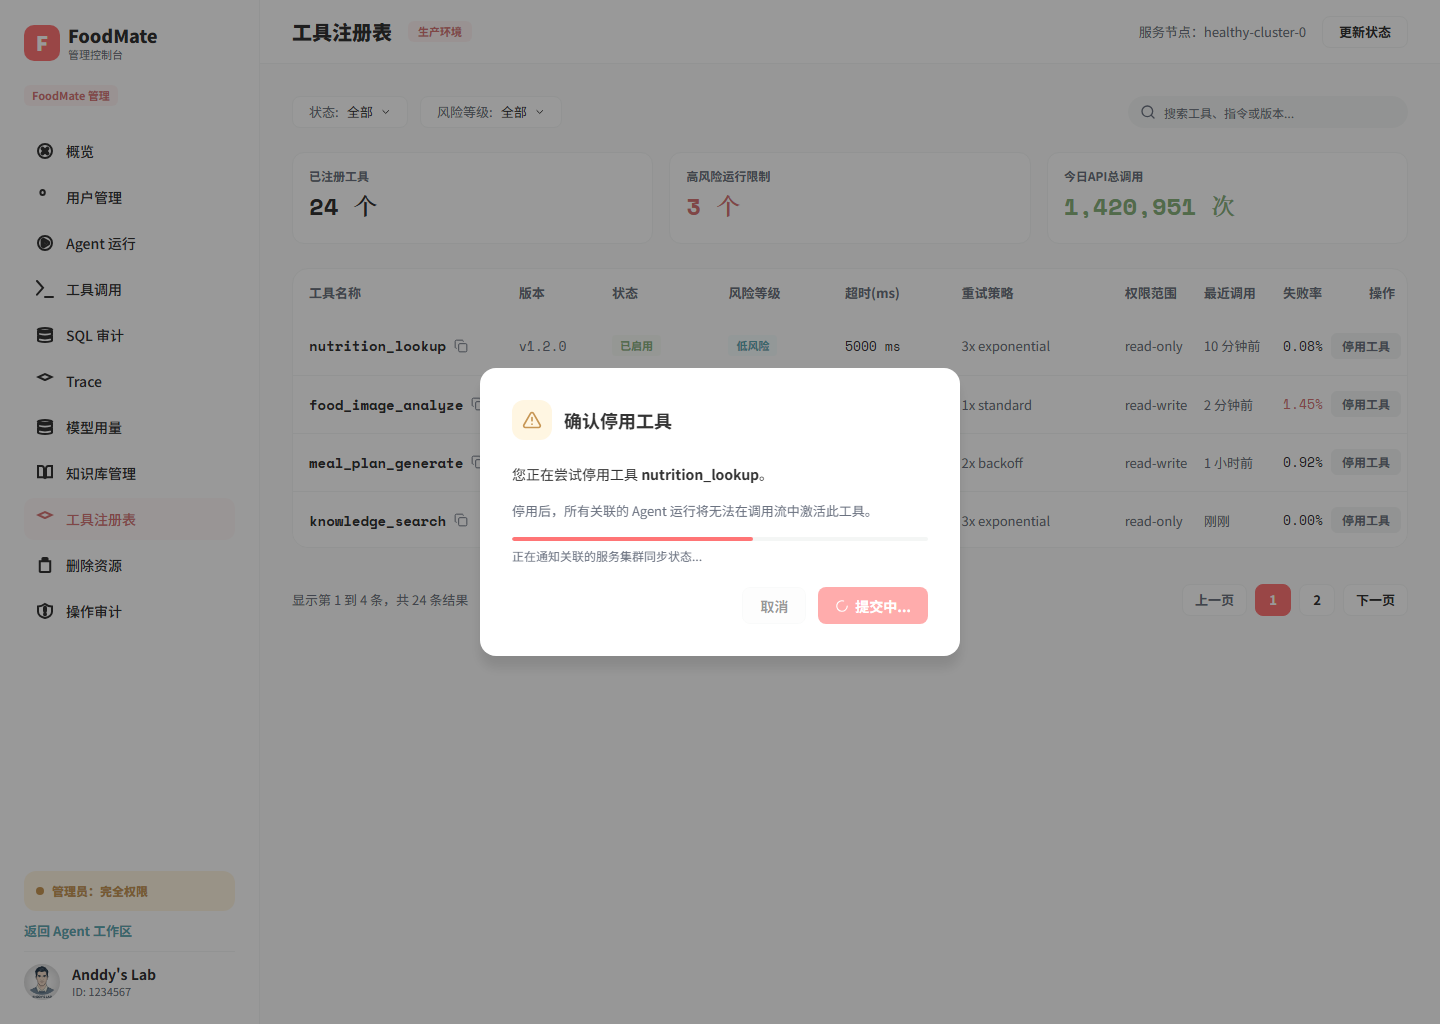
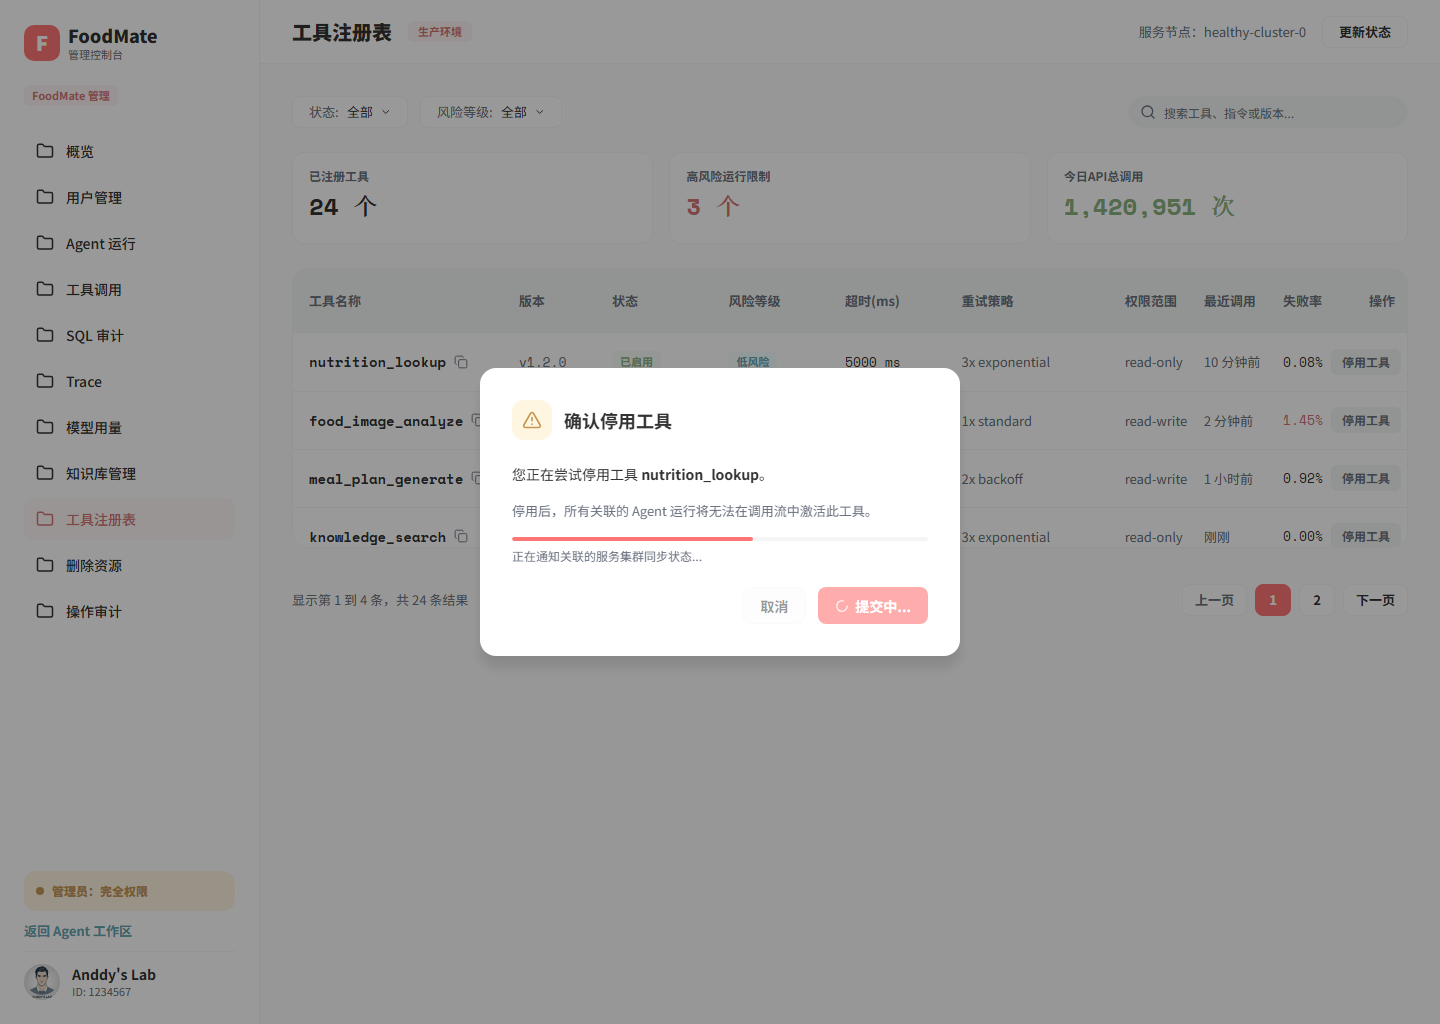
feat(admin): 收口操作状态视觉

diff --git a/foodmate-ui/src/pages/AdminPage/AdminPage.tsx b/foodmate-ui/src/pages/AdminPage/AdminPage.tsx
@@ -1,4 +1,4 @@
-import { AlertTriangle, ArrowLeft, CheckCircle2, Plus, RefreshCw, ShieldAlert, X, XCircle } from 'lucide-react';
+import { AlertTriangle, ArrowLeft, CheckCircle2, Folder, Plus, RefreshCw, ShieldAlert, X, XCircle } from 'lucide-react';
 import { useEffect, useState, type CSSProperties } from 'react';
 import { Link, useLocation, useNavigate } from 'react-router-dom';
 import { Badge } from '@/components/ui/badge';
@@ -946,12 +946,16 @@ export function AdminPage() {
                   if (isLocked) event.preventDefault();
                 }}
               >
-                <span
-                  aria-hidden="true"
-                  className={styles.navIcon}
-                  data-figma-icon={item.key}
-                  style={{ '--admin-nav-icon': `url("${item.iconPath}")` } as CSSProperties}
-                />
+                {requestedFixture?.startsWith('op-') ? (
+                  <Folder aria-hidden="true" className={styles.navFolderIcon} data-figma-icon={item.key} />
+                ) : (
+                  <span
+                    aria-hidden="true"
+                    className={styles.navIcon}
+                    data-figma-icon={item.key}
+                    style={{ '--admin-nav-icon': `url("${item.iconPath}")` } as CSSProperties}
+                  />
+                )}
                 <span>{item.label}</span>
               </Link>
             );

diff --git a/foodmate-ui/src/pages/AdminPage/tabs/ToolsTab.tsx b/foodmate-ui/src/pages/AdminPage/tabs/ToolsTab.tsx
@@ -244,11 +244,12 @@ function ToolRegistrySection({
                   : ''
               } ${operationActionDisabled ? styles.registryActionDisabled : ''}`}
               size="sm"
+              aria-label={record.status === 'active' ? '停用工具' : '启用工具'}
               disabled={operationActionDisabled}
               onClick={() => onAction(createToolAction(record))}
             >
               {operationStatus === 'no-permission' ? <Lock aria-hidden="true" /> : null}
-              {record.status === 'active' ? '停用工具' : '启用工具'}
+              {operationStatus === 'no-permission' ? null : record.status === 'active' ? '停用工具' : '启用工具'}
             </Button>
           ) : (
             <Button

diff --git a/foodmate-ui/src/pages/AdminPage/AdminPage.module.css b/foodmate-ui/src/pages/AdminPage/AdminPage.module.css
@@ -123,6 +123,14 @@
   mask: var(--admin-nav-icon) center / contain no-repeat;
 }
 
+.navFolderIcon {
+  width: 18px;
+  height: 18px;
+  flex: 0 0 auto;
+  color: currentColor;
+  stroke-width: 2;
+}
+
 .navButton:hover,
 .navButtonActive {
   background: rgba(255, 117, 118, 0.05);

diff --git a/docxs/功能实现说明/前端已完成实现清单.md b/docxs/功能实现说明/前端已完成实现清单.md
@@ -2026,3 +2026,21 @@
 - [ ] 三项自动 diff 均为非零，仍存在字体光栅化、导航图标、头像和局部内容差异，不能标记为像素级 `PASS`；全量聚合继续保持 `105 DIFF_REVIEW / 0 PASS / 0 UNMAPPED / 0 SIZE_MISMATCH`。
 - [x] 本批次集中执行 4 个 Admin 测试文件、`38/38` 个用例通过；`npm run typecheck`、`npm run build`、`npm run lint`、`npm run format:check`、`npm run qa:figma:validate` 和 `git diff --check` 均通过。证据校验返回 `structuralPass=true`、`strictDprPass=true`、`errors=[]`，全量聚合仍为 `105 DIFF_REVIEW / 0 PASS / 0 UNMAPPED / 0 SIZE_MISMATCH`。
 - [x] 本批次未创建虚构 iconfont 字体、glyph 或 Unicode 映射；iconfont 实体包、完整 CSS/Unicode 映射、来源和许可证仍缺失，资源登记继续保持 `BLOCKED`。
+
+## 224. 2026-09-06 Admin 操作状态组视觉收口
+
+本大点只处理 Admin 无权限、确认、提交中、成功和失败五个操作状态画板，不重新验收全部 105 个画板。Figma 文件保持只读；真实模式的权限判断、写操作确认、请求执行和审计边界未改变。
+
+| 画板 | Figma 节点 | 前端入口 | 浏览器 PNG | 视口 / DPR | 差异比例 | MAE | RMSE | 最大通道差异 | 结论 |
+|---|---|---|---|---|---:|---:|---:|---:|---|
+| Admin Operation No Permission | `692:4319` | `/admin?state=op-no-permission` | `dpr1-admin-op-no-permission-browser-2026-09-06.png` | `1440×1024 / 1` | 14.8073% | 3.037330 | 18.268024 | 239 | `DIFF_REVIEW` |
+| Admin Operation Confirm | `692:4539` | `/admin?state=op-confirm` | `dpr1-admin-op-confirm-browser-2026-09-06.png` | `1440×1024 / 1` | 17.2768% | 1.723395 | 10.732244 | 224 | `DIFF_REVIEW` |
+| Admin Operation Submitting | `692:4766` | `/admin?state=op-submitting` | `dpr1-admin-op-submitting-browser-2026-09-06.png` | `1440×1024 / 1` | 15.5569% | 1.710165 | 10.673565 | 224 | `DIFF_REVIEW` |
+| Admin Operation Success | `692:4995` | `/admin?state=op-success` | `dpr1-admin-op-success-browser-2026-09-06.png` | `1440×1024 / 1` | 14.5965% | 3.070683 | 18.550601 | 231 | `DIFF_REVIEW` |
+| Admin Operation Failed | `692:5207` | `/admin?state=op-failed` | `dpr1-admin-op-failed-browser-2026-09-06.png` | `1440×1024 / 1` | 16.9732% | 2.039585 | 12.151475 | 204 | `DIFF_REVIEW` |
+
+- [x] 操作态 fixture 在 Figma 专用路径下使用统一文件夹导航图标；无权限状态的操作列改为锁图标并保留按钮无障碍名称，真实模式操作列不变。
+- [x] 五项浏览器 PNG 已由 Chrome `152.0.7977.77` 在 `1440×1024`、DPR `1`、字体 `loaded` 和无横向溢出条件下重新采集；五项同尺寸 diff 已同步到 `figma-105-diff-results.json`。
+- [ ] 五项自动 diff 均为非零，仍存在共享头像、字体光栅化和局部内容差异，继续保持 `DIFF_REVIEW`；全量聚合仍为 `105 DIFF_REVIEW / 0 PASS / 0 UNMAPPED / 0 SIZE_MISMATCH`。
+- [x] 本批次集中执行 3 个 Admin 操作态测试文件、`33/33` 个用例通过；`npm run typecheck`、`npm run build`、`npm run lint`、`npm run format:check`、`npm run qa:figma:validate` 和 `git diff --check` 均通过。证据校验返回 `structuralPass=true`、`strictDprPass=true`、`errors=[]`，全量聚合仍为 `105 DIFF_REVIEW / 0 PASS / 0 UNMAPPED / 0 SIZE_MISMATCH`。
+- [x] 本批次没有创建虚构 iconfont 字体、glyph 或 Unicode 映射；iconfont 资源登记继续保持 `BLOCKED`。

diff --git a/docxs/功能实现说明/Figma前端像素级验收报告.md b/docxs/功能实现说明/Figma前端像素级验收报告.md
@@ -2261,3 +2261,21 @@ Figma Design 页共有 105 张顶层画板。本轮已为 105 张画板建立独
 - [ ] 三项自动 diff 均为非零，仍保持 `DIFF_REVIEW`；结构检查、截图存在和控件迁移审计不替代人工像素级 `PASS`。
 - [ ] 本节只复核三个受影响画板，不代表其余 102 个画板重新采集或完成全量人工视觉复核；全量聚合继续为 `105 DIFF_REVIEW / 0 PASS / 0 UNMAPPED / 0 SIZE_MISMATCH`。
 - [x] 本批次集中执行 4 个 Admin 测试文件、`38/38` 个用例通过；`npm run typecheck`、`npm run build`、`npm run lint`、`npm run format:check`、`npm run qa:figma:validate` 和 `git diff --check` 均通过。证据校验返回 `structuralPass=true`、`strictDprPass=true`、`errors=[]`。
+
+## 38. 2026-09-06 Admin 操作状态组增量验收
+
+本节只记录 Admin 无权限、确认、提交中、成功和失败五个受影响画板的当前浏览器截图与 PNG diff，不重新采集或人工验收其余画板。Figma 文件保持只读，真实模式操作边界未改变。
+
+| 画板 | Figma 节点 | 前端入口 | 浏览器 PNG | 视口 / DPR | 差异比例 | MAE | RMSE | 最大通道差异 | 结论 |
+|---|---|---|---|---|---:|---:|---:|---:|---|
+| Admin Operation No Permission | `692:4319` | `/admin?state=op-no-permission` | `dpr1-admin-op-no-permission-browser-2026-09-06.png` | `1440×1024 / 1` | 14.8073% | 3.037330 | 18.268024 | 239 | `DIFF_REVIEW` |
+| Admin Operation Confirm | `692:4539` | `/admin?state=op-confirm` | `dpr1-admin-op-confirm-browser-2026-09-06.png` | `1440×1024 / 1` | 17.2768% | 1.723395 | 10.732244 | 224 | `DIFF_REVIEW` |
+| Admin Operation Submitting | `692:4766` | `/admin?state=op-submitting` | `dpr1-admin-op-submitting-browser-2026-09-06.png` | `1440×1024 / 1` | 15.5569% | 1.710165 | 10.673565 | 224 | `DIFF_REVIEW` |
+| Admin Operation Success | `692:4995` | `/admin?state=op-success` | `dpr1-admin-op-success-browser-2026-09-06.png` | `1440×1024 / 1` | 14.5965% | 3.070683 | 18.550601 | 231 | `DIFF_REVIEW` |
+| Admin Operation Failed | `692:5207` | `/admin?state=op-failed` | `dpr1-admin-op-failed-browser-2026-09-06.png` | `1440×1024 / 1` | 16.9732% | 2.039585 | 12.151475 | 204 | `DIFF_REVIEW` |
+
+- [x] 五项截图均由 Chrome `152.0.7977.77` 在 `1440×1024`、DPR `1`、字体 `loaded` 和无横向溢出条件下采集；浏览器 PNG 和五项 diff JSON 已同步。
+- [x] 无权限画板的 Figma 专用导航和锁图标操作列已在 fixture 中复现；真实模式权限和写操作逻辑未改变。
+- [ ] 五项自动 diff 均为非零，仍保持 `DIFF_REVIEW`；截图、结构检查和交互测试不替代人工像素级 `PASS`。
+- [ ] 本节只复核五个受影响画板，不代表其余 100 个画板重新采集或完成全量人工视觉复核；全量聚合继续为 `105 DIFF_REVIEW / 0 PASS / 0 UNMAPPED / 0 SIZE_MISMATCH`。
+- [x] 本批次集中执行 3 个 Admin 操作态测试文件、`33/33` 个用例通过；`npm run typecheck`、`npm run build`、`npm run lint`、`npm run format:check`、`npm run qa:figma:validate` 和 `git diff --check` 均通过。证据校验返回 `structuralPass=true`、`strictDprPass=true`、`errors=[]`。
